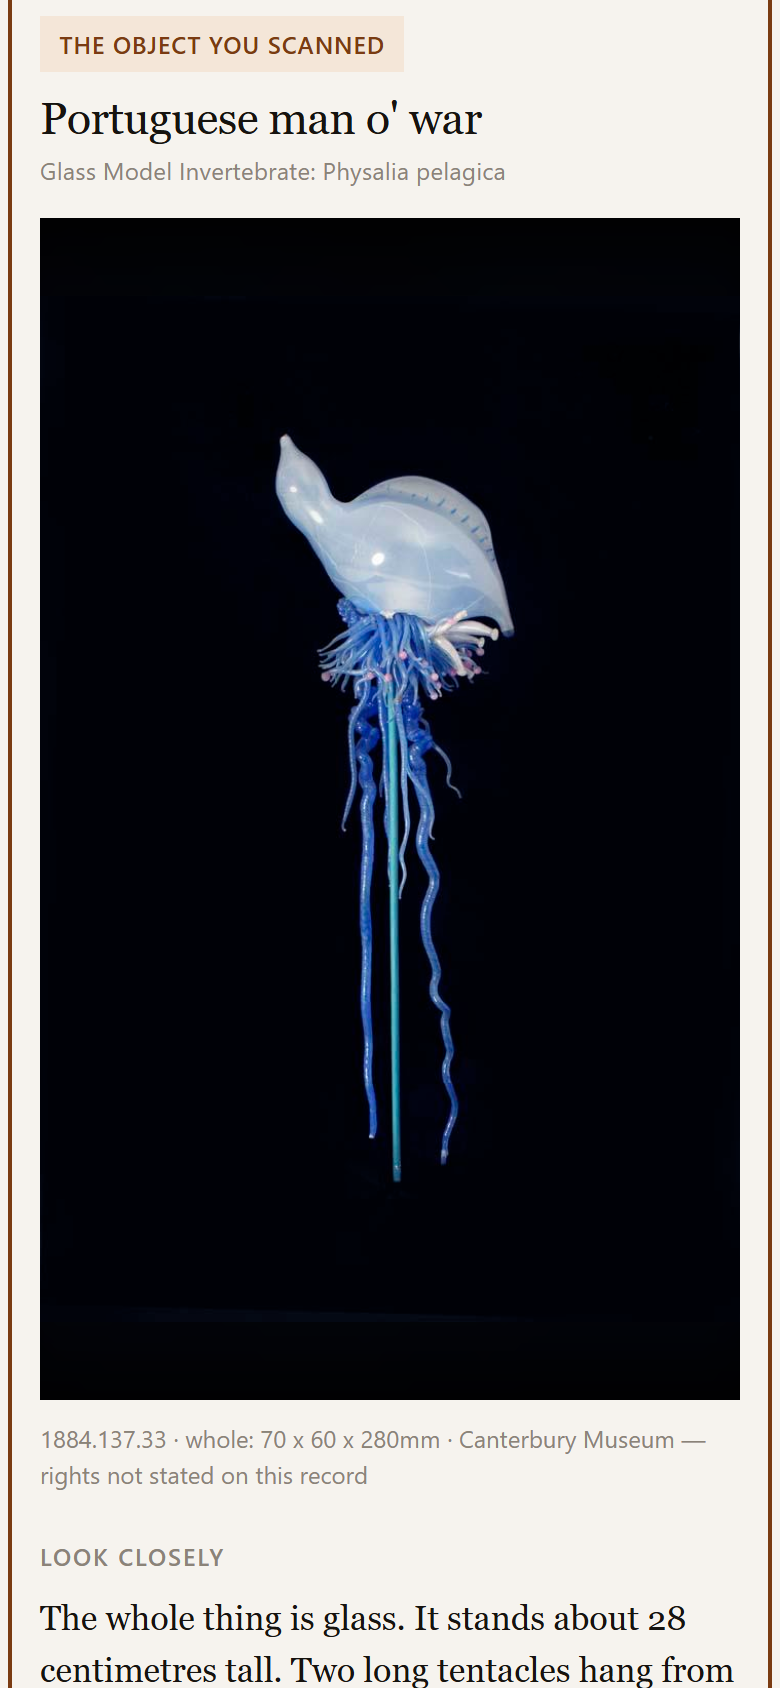
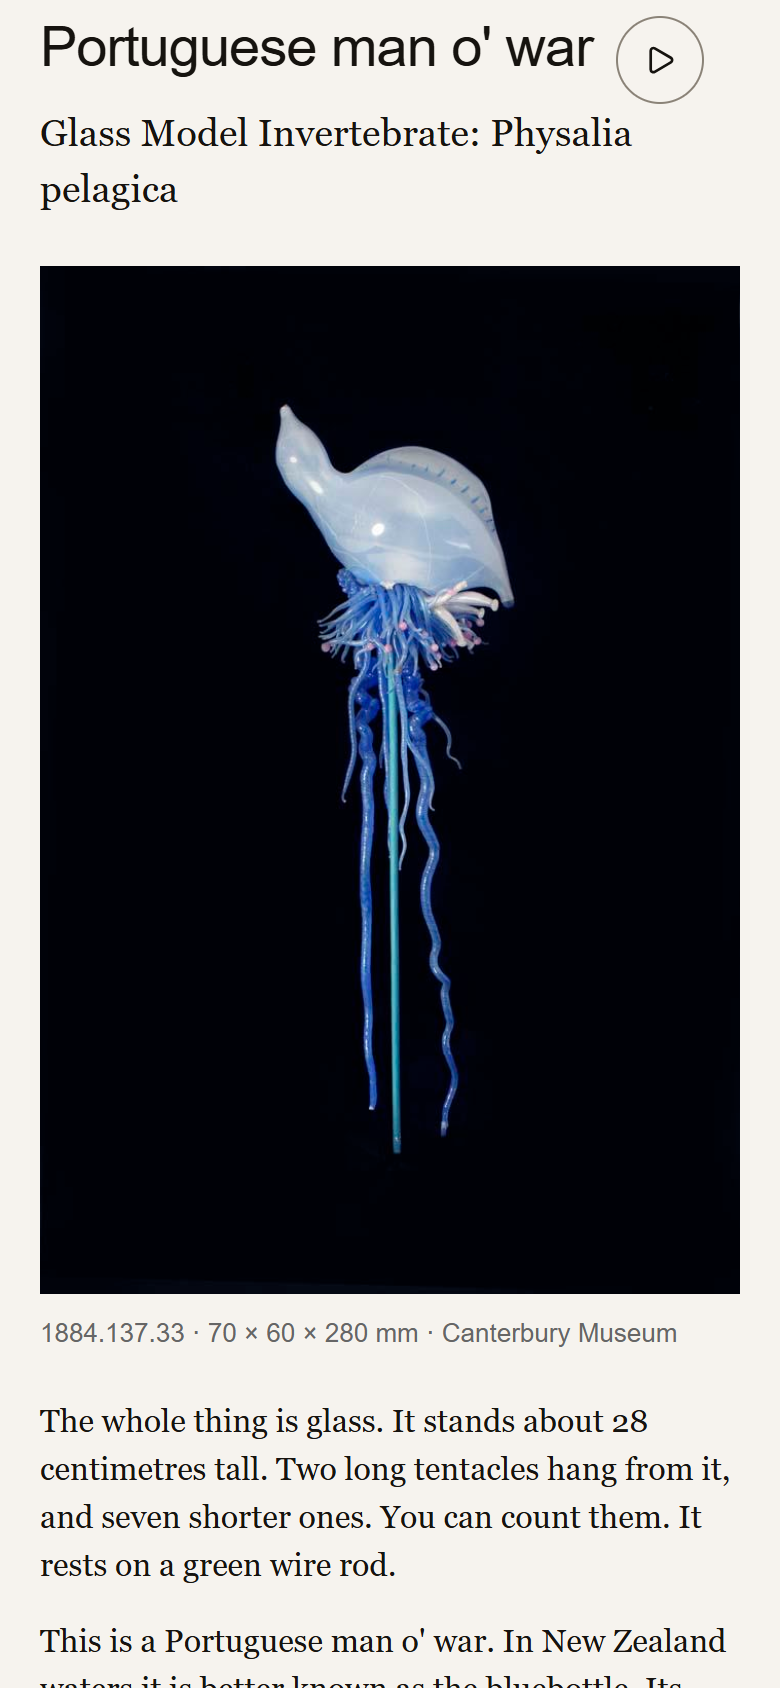
Docs: rewrite the README for a museum-technology reader
Reframed as orientation before a demo: what it is, five minutes with it, how it is built, languages, the audio guide, running costs, and the path to production. The measured findings and the sharper observations stay in docs/prototype-findings.md, linked rather than repeated. Fresh screenshot of the QR arrival as it renders today.

diff --git a/README.md b/README.md
@@ -1,244 +1,149 @@
 # The Blaschka collection — a museum companion
 
-Canterbury Museum holds 128 nineteenth-century glass models of invertebrates, made by Leopold and
-Rudolf Blaschka in Dresden and acquired in 1883. **One is on display. The rest are in storage.**
-That asymmetry is the product:
-
-> Here is the one you can see. Here are the other 127 you can't.
-
-This is **v2, and it is a prototype rather than the product** — deliberately so. It exists to answer
-four questions that no amount of further specification could settle, and it is built only as far as
-answering them requires.
+Canterbury Museum holds 128 nineteenth-century glass models of marine invertebrates, made by
+Leopold and Rudolf Blaschka in Dresden and acquired in 1883. **One is on display. The other 127
+are in storage.** This is a companion web app for the visitor standing in front of that one
+object: it answers *what am I looking at, what is it made of, and why is it here* — and then
+opens the rest of the collection they cannot see.
 
 **▶ Live: <https://manowar.vercel.app>**
 
-![The prototype on a phone: the Portuguese man o' war photographed on black, filling most of the screen, under the heading "Portuguese man o' war" with the catalogue string demoted beneath it, and a flag reading "The object you scanned".](docs/screenshot.png)
+It is a working prototype, built to a written specification ([`BUILD-SPEC-v2.md`](BUILD-SPEC-v2.md))
+and instrumented rather than guessed at: the measurements, trade-offs and things the spec got wrong
+are written down in [`docs/prototype-findings.md`](docs/prototype-findings.md).
+
+![A phone showing the QR arrival: the heading "Portuguese man o' war" with a play button beside it, the catalogue name demoted beneath, the glass model photographed on black, its accession and dimensions, and the story beginning directly below.](docs/screenshot.png)
 
 ---
 
-## What changed from v1, and why it matters
+## Five minutes with it
 
-v1 was **one object**, explored three ways — a photograph you could pan, a short video, and a 3D
-model you could orbit — with the story behind a tap and a quiz at the end.
+- **Start at the front page.** It reads top to bottom: what this collection is, the one object on
+  display, why it is made of glass, how it reached Christchurch — then the other 127, as eleven
+  groups and a grid of all 128. The reading comes before the browsing on purpose: the visitor
+  holding this page is standing in a gallery, not shopping a catalogue.
+- **Scan the case.** `/o/1884.137.33` is what a QR code beside the display case would open. It
+  lands with that object at the top of the screen, highlighted, URL intact — no navigation to
+  learn. Every one of the 128 objects has such an address.
+- **Press Listen.** The audio guide highlights the printed words as they are spoken and keeps them
+  on screen, with per-section skip, variable speed, and lock-screen controls — the phone can go
+  back in the pocket. Sections are one file each, so "skip this section" can never drift out of
+  sync with the page.
+- **Switch to Deutsch and press Anhören.** The full guide exists in German too.
+- **Open a group.** Eleven group pages — jellyfish, sea anemones, cephalopods — each a panel, its
+  objects inline with their stories, and further reading that says how close each link actually is
+  to the object in the glass.
+- **Display settings.** Text size and high contrast, persisted, reachable from every route — which
+  matters most on the QR route, where a visitor never sees the front page.
 
-v2 is **the collection**. That is a different problem, and most of v1's answers do not survive it:
+## How it is built
 
-| v1 | v2 | Why |
-|---|---|---|
-| One object | 128 | The scaling question |
-| Three canvas modes including 3D | Photograph only, in this build | 30MB for one object never reaches 128 honestly |
-| Story behind a tap | Story inline, beneath the media | Every tap between a visitor and the writing is where most of them stop |
-| Floating chrome over a full-bleed canvas | A page that scrolls, and ends | Floating chrome does not survive a browse model |
-| A live API call every session | **A build-time harvest** | See below |
-| Dark everywhere | Dark media; the reading area follows your device | 79 of the primary photographs are the object on pure black |
+A static site: Vite and React, no backend of its own. **All collection data comes from the
+Museum's collection API** — every record, name, measurement, photograph and rights line in the
+app is loaded from it. What the prototype changed is *when* that loading
+happens: v1 called the API live in every visitor's session; v2 calls the same API at build time,
+so a visitor on gallery wifi gets a screen worth looking at in seconds and the Museum's systems
+carry no per-visitor load at all. The live API remains the source of truth — a re-harvest is one
+command, taking about nine seconds of its time, run whenever the catalogue changes. Translations
+and narration are likewise generated ahead of time and shipped as files: at runtime the app
+serves nothing but static files.
 
-**The 3D model is gone, and cutting it is the opening move of the scaling argument.** It was the
-heaviest asset, the riskiest dependency, the only thing needing a "not a scan" disclaimer, and the
-one feature that could never reach 128 objects honestly — 60 of them have exactly one photograph,
-and generating 3D from a single catalogue photo invents anatomy nobody observed.
+Hosting is Vercel; every push to `main` deploys production automatically. The build carries its
+own assertions — data integrity across all 128 records, WCAG contrast on every text/background
+pair in every theme, and the audio rule below — so a build that would ship something broken fails
+instead.
 
-### The live fetch is gone, and v1's pitch went with it
+Built phone-first and measured on a throttled connection with a cold cache: text is readable in
+about 1.5 seconds, the first photograph between roughly 2.5 and 4, and a page sends only the
+media near the viewport. The numbers and method are in the findings document.
 
-**v1's pitch was "the live fetch is real, every session." That is no longer true, and it should not
-be glossed over.** The collection API caps at 100 records per request, serves `view=detail`
-uncompressed, is not CDN-cached, and takes about **8 seconds of server time** before a single
-thumbnail could begin loading. A visitor standing in a gallery has about five seconds.
+## Eight languages
 
-So the harvest runs **once, at build time**, into a local manifest. The live API remains the source
-of truth and the harvest is re-run on demand — it is simply not a runtime dependency any more.
+Interface, all eleven group panels, both essays, all 128 object stories and every further-reading
+annotation exist in English, German, French, Spanish, Japanese, Korean, Traditional Chinese and
+Arabic — the last fully right-to-left. Three honesty rules hold throughout:
 
-**The harvest also found a data-quality issue worth reporting to the Museum.** Querying on
-`collection:"Blaschka Glass"` returns 127 records. Querying on `maker_name:"Leopold Blaschka"`
-returns **128**. The difference is a real, documented model — **1884.137.110**, *Terebella
-conchilega*, six photographs, published in Shaw et al. 2017 — whose `collection` field is an empty
-string, so the Museum's own collection query cannot return it.
+- **The provenance is recorded.** Every non-English word is machine translation, so far
+  unreviewed by a person. A ledger records the engine, date and review status of every unit, so
+  the claim is auditable — and review by a native speaker moves a counter, not a checkbox.
+- **Names are looked up, not translated.** Vernacular animal names come from GBIF and Wikidata via
+  a hand-checked glossary; the engine is given the answer rather than allowed to guess.
+- **Citations are quoted as printed.** The title of somebody else's article stays in its own
+  language and is marked as such; only our sentence explaining why it is worth reading translates.
 
----
+## The audio guide
 
-## What this prototype is for
+Two languages are voiced — English (an Aotearoa voice, en-NZ) and German — 414 sections each,
+about three and a half hours of narration in total, with word-level read-along throughout.
 
-Four questions, and the measured answers. Full working in
-**[`docs/prototype-findings.md`](docs/prototype-findings.md)**, which is the more useful document —
-it is where the things the spec got wrong are written down.
+The rule the whole pipeline enforces: **the spoken words are the printed words, word for word.**
+Narration is synthesised from exactly the text on the page, the build fails if they differ by one
+character, and pronunciation is applied as metadata wrapping a word rather than by changing it.
+Word timings are generated at production time, never guessed in the browser. Languages that are
+not yet voiced simply show no Listen control — availability is checked per section, against files
+that exist.
 
-Measured in headless Chrome at 390×844, throttled to **130KB/s** with a cold cache.
+## What it costs to run and change
 
-**1. Do the eleven group tiles read?** Partly. Eight of eleven. The grid is dark because the
-photography is dark — but the eleven images actually chosen were picked without looking at them, and
-measuring their luminance showed several that read as bright mount board rather than object-on-black.
+- **Hosting:** static files on Vercel; no servers, no databases, no keys in the shipped app.
+- **Editing:** change an English sentence and push — a GitHub Action retranslates that sentence
+  into seven languages and re-voices its narration, touching nothing else. The incrementality is
+  what protects human review: verified translations stand until their English actually changes.
+- **Scale of the bills:** retranslating the entire corpus into all seven languages costs roughly
+  six dollars; voicing a whole language is a deliberate one-command run costing a few dollars and
+  about 40MB of audio. Both are decisions a person makes, not side effects — the automation is
+  built so a one-word edit can never quietly spend either.
 
-**2. Is a group page finishable?** Eight objects is **11.7 screen-heights** as built, and **17.0**
-once every object has a real story. A 19-object page would be **38.4**. The scroll problem is real
-and the spec did not overstate it.
+## The path from prototype to product
 
-**3. Does a QR arrival work?** Yes — it is the best screen in the build. `/o/1884.137.33` lands with
-the object at the top of the screen, marked *the object you scanned*, with the URL intact and no
-scroll animation. Largest paint at **2.4s** — faster than arriving at the page any other way.
+Deliberately not built, so the built parts could be measured honestly: trails, the quiz, video,
+sign-language video, offline support, NFC, and deep zoom (which waits on larger image derivatives
+than the collection system currently exports).
 
-**4. How long until the screen is worth looking at?** Text at **1.45s**, photograph at 2.4–4.2s. A
-group page sends **173KB** up front rather than the 552KB it would cost to load all eight
-photographs, because only media near the viewport loads.
+What needs people rather than software:
 
----
+- **A reviewer per language community.** The specification prices verification, not translation,
+  as the cost that scales with languages. The review ledger and the in-app disclosure are ready
+  for them; the people have not been engaged.
+- **A German pronunciation lexicon.** The scientific names are currently read with German
+  letter-to-sound rules; the file for a reviewer's corrections exists and is empty.
+- **Editorial ownership.** Naming choices, the hand-curated further reading, and the carve-outs —
+  quotations and anything touching taonga or mana whenua are never machine-translated — are
+  recorded with their reasoning, ready to be handed over rather than rediscovered.
 
-## What is built, and what is not
+What the Museum would own: the repository, the Azure Speech and Translator resources, the Vercel
+project, and every word.
 
-**Built.** The harvest, with assertions that fail the build if the data shifts — including a
-non-empty story on all 128 (§20). All eleven group pages. `/o/{accession}` for all 128, resolving to
-the group page and scrolling to the object. Eight languages with RTL, complete: every interface string,
-every group panel, both essays, all 128 object stories and all 30 further-reading annotations in
-each. A 438-file audio guide with
-word-level read-along, a scrubber and lock-screen controls. Lazy media, a dark grid, and a reading
-area that follows `prefers-color-scheme`.
+## AI assistance, stated plainly
 
-**The collection page answers the whole question, in one read.** `/` runs: what this collection is,
-the one object a visitor can actually see, why it is made of glass, how it reached Christchurch —
-and then the other 127, as eleven group tiles and a grid of all 128.
+- Built with Claude (Anthropic) as an agentic coding assistant, directed from the written
+  specification and reviewed step by step; it also ran the measurements, driving a headless
+  browser rather than estimating.
+- All non-English text is machine translation, recorded per unit in the translation ledger as
+  above. The narration is synthesised speech (Azure Neural voices) derived from the printed text.
+- **The photographs are the Museum's own documentary record — never generated, never upscaled.**
+  They are the one asset here that is evidence rather than interpretation.
 
-The four are consecutive on purpose. A visitor holding this page is standing in front of exactly
-one object, 1884.137.33, and their question is not *what is in this collection* — they can see what
-is in front of them — but *what am I looking at, what is it made of, and why is it here?* That used
-to be answered in three places: the story was a tap away on the group page, and the two essays sat
-below 139 tiles. Nothing was written for the change; the object is the same component the group
-page renders, reading the same story, and the essays are untouched. What changed is the order.
-
-**The cost is stated rather than hidden.** The reading now comes before the browsing, so on a phone
-the collection begins 6.7 screen-heights down: **12 screen-heights became 13.7**, and 36KB of that
-is the man o' war photograph, which is now the page's own LCP element. That is the right trade for
-the visitor in the gallery and the wrong one for a visitor who came to browse. At 80rem it stops
-being a trade — the reading is one column, the grid is the other, and both are on screen at once.
-
-**A desktop layout.** §10's media-beside-text, at 64rem and above. It roughly halves every group
-page: sea anemones runs 22.8 screen-heights in one column and 14.5 in two.
-
-**Text size and high contrast** (§18), persisted, reachable from every route alongside the language
-picker — which matters most on the QR route, where a visitor lands on a group page rather than here.
-
-**Further reading, at three scales** (§6's external sources). The collection page ends with the
-other Blaschka world — Cornell's 570 models, Corning's exhibition, Harvard's Glass Flowers. Each
-group page ends with the Te Ara article on those animals in New Zealand. Each object carries a
-closed disclosure holding whatever can be verified for it: a Te Ara or MarLIN page where one
-exists, and its taxonomic record either way.
-
-**Every link says how close it actually is to the object** — *the same species*, or *a related
-animal, not the species in the glass*, or *the group, not this object*. That is the same discipline
-§6 applies to GBIF photographs, and it is why the curation is hand-authored: a Te Ara photograph of
-a New Zealand spoon worm beside a Blaschka model of a Mediterranean one is worth linking and is not
-the same animal.
-
-**Our words translate; the citations do not.** The sentence explaining why a source is worth reading
-is a fourth translation tier (`src/data/i18n/elsewhere/`), complete in all eight languages. The
-title of somebody else's article and the name of the institution that published it stay in English
-and are marked `lang="en" dir="ltr"` — a citation is quoted as printed, and translating "Fragile
-Legacy" would tell a German reader it leads somewhere German. It does not.
-
-**The taxonomy is resolved once, at build time, and refuses more often than it answers.** `npm run
-taxa` resolves all 128 against WoRMS and GBIF: **104 resolve, 60 of those to a name that has since
-been superseded** — which is §6's ~57% measured independently. The other 24 are refusals with
-reasons: fourteen misspellings that only match fuzzily, two homonyms where the catalogue name points
-at two different accepted species, and the objects with no animal to look up. **None of them is
-published on a guess**, and the interface says so rather than rendering an empty link. `npm run
-taxa:verify` re-checks every URL the app can hand a visitor.
-
-**Not built, deliberately.** Trails, the quiz, video, sign video, offline support, NFC, the
-seen-set, and deep zoom — §12 defers that last one until the Museum can export larger derivatives.
-
-**All 128 stories are written**, 95 words median. The depth cliff the prototype was built to test —
-one long entry beside 127 placeholders — no longer exists, and `scripts/split.mjs` now fails the
-build if a story is ever emptied.
-
----
-
-## The translation and narration pipeline
-
-Change an English story and push it, and the translations and the narration derived from it update
-themselves — touching only what changed. `.github/workflows/translate.yml` is triggered by the
-English sources alone, so the job's own output can never re-trigger it.
-
-It is incremental for a reason that is not the money. Retranslating every word into every language
-costs about six dollars. What it destroys is human review: §7 makes verification the cost that
-scales with languages, and `src/data/translation-index.json` records a `reviewStatus` per unit that
-resets only when that unit's English actually changes. Changing one sentence retranslates one
-sentence and leaves the other 750 units' review standing.
-
-Three guards run before anything is written. §7's carve-outs refuse to send quotations or anything
-touching taonga or mana whenua. Names with a right answer are supplied to the engine from
-`src/data/glossary.json` rather than left to it, and the run fails if the agreed name does not come
-back. And a back-translation sweep flags meaning that did not survive the round trip — it is how
-"Ribbon worm" was caught coming back as "Tapeworm", a different phylum stated confidently.
-
-### The engine, and what the free tier costs
-
-This runs on Azure's **neural machine translation**, and it is the weakest part of the system.
-
-Azure also offers **LLM translation**, which needs an Azure AI Foundry resource with a model
-deployed in it; the classic Translator resource answers 404 to the API version it requires. The
-scripts already choose the engine from what the endpoint can actually reach and record which one
-produced each unit, so moving is an endpoint and a deployment name in `.env.local`.
-
-**It is worth more than everything else in this pipeline put together.** NMT rendered "It is a
-float" into French as *C'est une flotte* — a fleet of ships — in the sentence explaining the
-animal's anatomy. It called a living man o' war *un hombre de guerra*, a man of war. It wrote
-*la vraie médusse*, a misspelling it invented. It used *vous* and *tu* in the same object, against
-a writing standard (§6) built on a consistent voice. The glossary catches names; nothing here
-catches prose, and §7 says as much: automated checks find errors well and are close to blind to
-whether the writing is any good.
-
-The fair comparison is not this against a careful human — it is this against Azure's LLM mode,
-which is the same class of model that drafted the English. **The whole backfill into seven
-languages cost about four dollars. The paid tier that would have made it good costs less than the
-difference is worth.** Recorded as **Q12** in `BUILD-SPEC-v2.md` §22.
-
----
-
-## Run it
+## Run it locally
 
 ```bash
 npm install
 npm run dev
 ```
 
-No API key, no proxy, no configuration — the data is already in `src/data/manifest.json`.
+No keys and no configuration — the data ships in the repository. Azure keys (see
+[`.env.example`](.env.example)) are needed only to regenerate translations or narration.
 
-To re-harvest from the Museum (about 9 seconds of their server time):
+## The paper trail
 
-```bash
-node scripts/harvest.mjs
-```
-
-Other scripts: `budget.mjs` prints the manifest size breakdown and reading-time arithmetic;
-`measure.mjs` reproduces the throttled numbers above against `npm run preview`;
-`representatives.mjs` ranks each group's photographs by how much of the frame is black.
-
----
-
-## AI assistance
-
-Stated in full, as the original brief asked.
-
-- **Development.** Built with **Claude (Anthropic)** working as an agentic coding assistant,
-  directed from a written specification and reviewed step by step. For v2 the assistant also ran the
-  measurements: it drove a headless browser over the Chrome DevTools Protocol to throttle the
-  connection, count transferred bytes and capture paint timings, rather than estimating them.
-- **Generated media.** v1's video, 3D model and spoken audio guide were produced with generative-AI
-  tools from the Museum's photographs and the written narrative. **None of them appear in v2** — the
-  3D model was cut on the reasoning above, and audio is now derived from the written text rather than
-  authored separately.
-- **Every non-English word is machine translation, and none of it has been reviewed by a person.**
-  Azure neural machine translation, except the German, which predates the pipeline and was drafted
-  by a language model. The language picker tells the reader this in their own language, and
-  `src/data/translation-index.json` records the engine and date for every unit, so the claim is
-  auditable rather than a promise. §7 asks for a paid standing reviewer per language community; that
-  has not happened, and until it does the disclosure is the honest part of the offer rather than a
-  formality.
-- **The names are looked up, not translated.** Vernacular names come from GBIF and Wikidata, and the
-  translator is given the answer rather than allowed to guess — because it guessed *portugiesisches
-  Kriegsschiff*, a warship, for the animal this app is named after. Where the two authorities
-  disagreed the choice is an editorial one, recorded with its reasoning and the candidates it was
-  chosen from, in `src/data/glossary.json`.
-- **The photographs are not generated and never will be.** They are the Museum's own documentary
-  record. No upscaling, AI or otherwise: it is the one asset here that is evidence rather than
-  interpretation, and a super-resolution model invents glass nobody photographed.
+- [`BUILD-SPEC-v2.md`](BUILD-SPEC-v2.md) — the specification this was built to, including its
+  open questions and the decisions taken against them.
+- [`docs/prototype-findings.md`](docs/prototype-findings.md) — the measured findings: what worked,
+  what the spec got wrong, and what the prototype learned about the delivery constraints and the
+  collection data along the way.
+- [`docs/audio-pipeline.md`](docs/audio-pipeline.md) and
+  [`docs/audio-generation.md`](docs/audio-generation.md) — how the narration is produced and
+  checked.
 
 ## Sources
 
